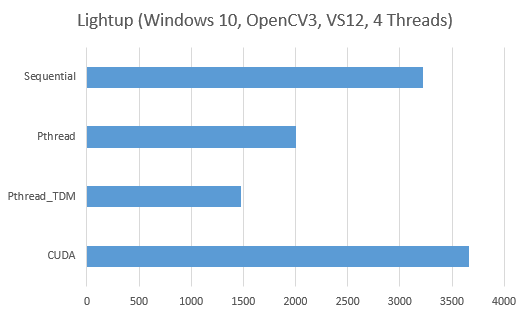
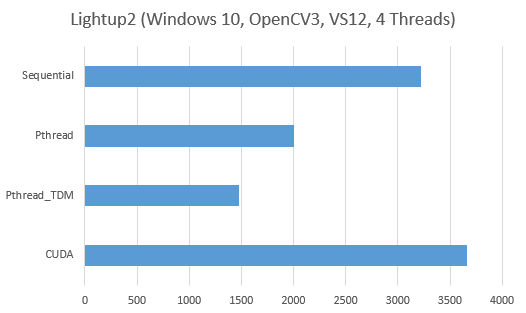
Fixed lightup2 pic

diff --git a/latex/sigproc-sp.tex b/latex/sigproc-sp.tex
@@ -185,8 +185,8 @@ Slowdown when input is small. Tiny speedup even when input is large. Similar res
 \subsection{Lightup2}
 Results are clearly better. Time Division seems to be better than Frame Division.
 \begin{figure}[H]
-  \includegraphics[width=\linewidth,natwidth=529,natheight=316]{lightup2.png}
-  \caption{Lightup (4 Threads, i7-3770, OpenCV3, VS12, Windows 10)}
+  \includegraphics[width=\linewidth,natwidth=526,natheight=313]{lightup2.png}
+  \caption{Lightup2 (4 Threads, i7-3770, OpenCV3, VS12, Windows 10)}
   \label{fig:lightup2}
 \end{figure}
 \begin{figure}[H]
